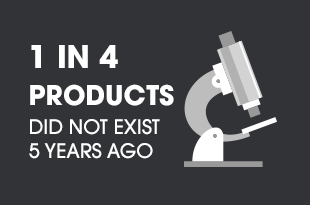
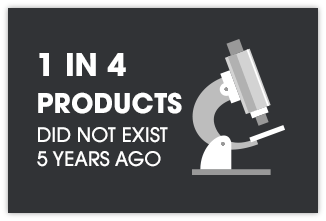
dfsjfhsl

diff --git a/index.html b/index.html
@@ -224,21 +224,25 @@ Solar Safety Film Trading.L.L.C is a leading performer in the window film indust
 
 						<div class="row topmargin-sm clearfix">
 
-							<div class="col-md-4 " style="padding:0px 35px">
-								<div class="heading-block nobottomborder" style="margin-bottom: 15px;">
-									<!-- <span class="before-heading">Scalable on Devices.</span> -->
-									<h4>What We Do</h4>
-								</div>
-								<p>
-Solar Safety Film Trading.L.L.C is the leading performer in window film industry of united arb emirates. As middleeast region has been the growing economy with environmental concern...
+							<div class="col-md-4 " style="padding:0px 15px">
+								<div style="background:#f6f6f6;padding:10px 25px">
+									<div class="heading-block nobottomborder" style="margin-bottom: 15px;">
+										<!-- <span class="before-heading">Scalable on Devices.</span> -->
+										<h4>What We Do</h4>
+									</div>
+									<p>
+	Solar Safety Film Trading.L.L.C is the leading performer in window film industry of united arb emirates. As middleeast region has been the growing economy with environmental concern...
 
-								</p>
-								<a href="whatwedo.html"><i class="fa fa-plus-square-o" aria-hidden="true"></i>  Read More</a>
+									</p>
+									<a href="whatwedo.html"><i class="fa fa-plus-square-o" aria-hidden="true"></i>  Read More</a>
+								</div>
+
 
 
 							</div>
 
-							<div class="col-md-4 " style="padding:0px 35px">
+							<div class="col-md-4 " style="padding:0px 15px">
+								<div style="background:#f6f6f6;padding:10px 25px">
 								<div class="heading-block nobottomborder" style="margin-bottom: 15px;">
 									<!-- <span class="before-heading">Smartly Coded &amp; Maintained.</span> -->
 									<h4>Corporate Values</h4>
@@ -247,9 +251,11 @@ Solar Safety Film Trading.L.L.C is the leading performer in window film industry
 As Dubai Supreme Council of Energy & Abudhabi Urban planning council (UPC) is strongly focusing on reducing CO2 emissions and carbon reduction plans, Solar Safety Film Trading.								</p>
 		<a href="corporate-values.html"><i class="fa fa-plus-square-o" aria-hidden="true"></i>  Read More</a>
 							</div>
+						</div>
 
-							<div class="col-md-4 " style="padding:0px 35px">
-								<div class="heading-block nobottomborder" style="margin-bottom: 15px;">
+						<div class="col-md-4 " style="padding:0px 15px">
+							<div style="background:#f6f6f6;padding:10px 25px">
+									<div class="heading-block nobottomborder" style="margin-bottom: 15px;">
 									<!-- <span class="before-heading">Flexible &amp; Customizable.</span> -->
 									<h4>Quality & Benefits</h4>
 								</div>
@@ -260,6 +266,7 @@ Windows are an important part of any building or home for natural light and view
 
 							</div>
 
+						</div>
 
 						</div>
 
@@ -374,9 +381,9 @@ Windows are an important part of any building or home for natural light and view
 
 						</div>
 
-						<img src="images/solar/1in4.png" class="img-responsive col-md-4 " style="background:#313336" alt="" />
-						<img src="images/solar/top100.jpg" class="img-responsive col-md-4"  style="border:1px solid #121"alt="" />
-						<img src="images/solar/topemp.jpg" class="img-responsive col-md-4" style="border:1px solid #121" alt="" />
+						<img src="images/solar/1in4.png" class="img-responsive col-md-4 "  alt="" />
+						<img src="images/solar/top100.png" class="img-responsive col-md-4"  alt="" />
+						<img src="images/solar/topemp.png" class="img-responsive col-md-4"  alt="" />
 
 						<div>&nbsp;</div>
 					</div>
@@ -429,7 +436,7 @@ After years of solid environmental stewardship, SolarGard journey towards enviro
 													<div class="col-md-3 col-sm-6 dark center col-padding-or" style="background:url(images/thumbs/solar-film-car-oman.png) ;background-size:cover">
 														<div>
 															<!-- <i class="fa fa-car fa-4x" aria-hidden="true"></i> -->
-															<div style="background:rgba(0,0,0,0.5) ">
+															<div style="background:rgba(0,0,0,0.7) ">
 															<div class="counter counter-lined"><span data-from="100" data-to="846" data-refresh-interval="50" data-speed="2000"></span> Sq.Ft</div>
 															<h5>Automotive Films </h5>
 														</div>
@@ -439,7 +446,7 @@ After years of solid environmental stewardship, SolarGard journey towards enviro
 													<div class="col-md-3 col-sm-6 dark center col-padding-or" style="background:url(images/thumbs/solar-films-commercial-oman.png);background-size:cover">
 														<div>
 															<!-- <i class="fa fa-area-chart fa-4x" aria-hidden="true"></i> -->
-															<div style="background:rgba(0,0,0,0.5) ">
+															<div style="background:rgba(0,0,0,0.7) ">
 															<div class="counter counter-lined"><span data-from="3000" data-to="21500" data-refresh-interval="100" data-speed="2500"></span> Sq.Ft</div>
 															<h5>Commercial Films</h5>
 														</div>
@@ -450,7 +457,7 @@ After years of solid environmental stewardship, SolarGard journey towards enviro
 													<div class="col-md-3 col-sm-6 dark center col-padding-or" style="background:url('images/thumbs/solar-film-residential-oman.png');background-size:cover">
 														<div>
 															<!-- <i class="fa fa-clone " aria-hidden="true"></i> -->
-															<div style="background:rgba(10,10,10,0.5) ">
+															<div style="background:rgba(10,10,10,0.7) ">
 																<div class="counter counter-lined"><span data-from="10" data-to="99" data-refresh-interval="20" data-speed="2500"></span> Sq.Ft</div>
 																<h5>Residential Films</h5>
 															</div>
@@ -461,10 +468,12 @@ After years of solid environmental stewardship, SolarGard journey towards enviro
 													<div class="col-md-3 col-sm-6 dark center col-padding-or" style="background:url('images/thumbs/solar-films-safety-oman.png');background-size:cover">
 														<div>
 															<!-- <i class="fa fa-flash fa-4x" aria-hidden="true"></i> -->
+															<div style="background:rgba(10,10,10,0.7) ">
 															<div class="counter counter-lined"><span data-from="6" data-to="30" data-refresh-interval="8" data-speed="2500"></span> Sq.Ft</div>
 															<h5>Safety Films</h5>
 														</div>
 													</div>
+												</div>
 
 											</div>
 
@@ -569,7 +578,7 @@ After years of solid environmental stewardship, SolarGard journey towards enviro
 
 				</div> -->
 
-				<div class="section nobottommargin nobottomborder" id="gallery" style="margin-top:0px !important">
+				<div class="section nobottommargin nobottomborder" id="gallery" style="margin-top:0px !important;    background: url('images/solar/222.jpg');background-size: cover;">
 					<div class="container clearfix">
 						<div class="heading-block center nomargin">
 							<h3>Our Projects</h3>
@@ -580,19 +589,20 @@ After years of solid environmental stewardship, SolarGard journey towards enviro
 
 					<article class="portfolio-item pf-uielements pf-media">
 						<div class="portfolio-image">
-							<a href="portfolio-single.html">
+							<a href="gallery-decorative.html">
 								<img src="images/solar/cgal/ar4.jpg " alt="Console Activity">
 							</a>
 							<div class="portfolio-overlay" data-lightbox="gallery">
-								<a href="images/solar/cgal/aur4.jpg" class="left-icon" data-lightbox="gallery-item"><i class="icon-line-stack-2"></i></a>
+								<a href="images/solar/cgal/ar4.jpg" class="left-icon" data-lightbox="gallery-item"><i class="icon-line-stack-2"></i></a>
 								<a href="images/solar/cgal/ar5.jpg" class="hidden" data-lightbox="gallery-item"></a>
 								<a href="images/solar/cgal/ar6.jpg" class="hidden" data-lightbox="gallery-item"></a>
 
 							</div>
 						</div>
 						<div class="portfolio-desc">
-							<h3><a href="portfolio-single.html">Automotive</a></h3>
-							<span><a href="#"> Elements</a>, <a href="#">Media</a></span>
+							<h3><a >Automotive</a></h3>
+							<span><a href="gallery-automotive.html"> Go To Automotive Gallery</a></span>
+
 						</div>
 					</article>
 
@@ -609,14 +619,14 @@ After years of solid environmental stewardship, SolarGard journey towards enviro
 							</div>
 						</div>
 						<div class="portfolio-desc">
-							<h3><a href="portfolio-single-gallery.html">Architecture</a></h3>
-							<span><a href="#">Illustrations</a>, <a href="#">Graphics</a></span>
+							<h3><a>Architecture </a></h3>
+							<span><a href="gallery-architecture.html"> Go To Architecture Gallery</a></span>
 						</div>
 					</article>
 
 					<article class="portfolio-item pf-uielements pf-icons">
 						<div class="portfolio-image">
-							<a href="portfolio-single-video.html">
+							<a >
 								<img src="images/solar/cgal/sf.jpg" alt="Backpack Contents">
 							</a>
 							<div class="portfolio-overlay" data-lightbox="gallery">
@@ -625,8 +635,8 @@ After years of solid environmental stewardship, SolarGard journey towards enviro
 							</div>
 						</div>
 						<div class="portfolio-desc">
-							<h3><a href="portfolio-single-video.html">Safety Films</a></h3>
-							<span><a href="#">UI Elements</a>, <a href="#">Icons</a></span>
+							<h3><a >Safety Films</a></h3>
+							<span><a href="gallery-safety-films.html"> Go To Safety Films Gallery</a></span>
 						</div>
 					</article>
 
@@ -646,8 +656,8 @@ After years of solid environmental stewardship, SolarGard journey towards enviro
 							</div>
 						</div>
 						<div class="portfolio-desc">
-							<h3><a href="portfolio-single.html">Decorative</a></h3>
-							<span><a href="#">Graphics</a></span>
+							<h3><a>Decorative</a></h3>
+							<span><a href="gallery-decorative.html"> Go To Decorative Gallery</a></span>
 						</div>
 					</article>
 					<article class="portfolio-item pf-media pf-icons">
@@ -656,13 +666,12 @@ After years of solid environmental stewardship, SolarGard journey towards enviro
 								<img src="images/solar/cgal/ar5.jpg" alt="Open Imagination">
 							</a>
 							<div class="portfolio-overlay" data-lightbox="gallery">
-								<a href="images/solar/cgal/ar5.jpg" class="left-icon" data-lightbox="image"><i class="icon-line-plus"></i></a>
-								<a href="portfolio-single.html" class="right-icon"><i class="icon-line-ellipsis"></i></a>
+								<a href="images/solar/cgal/ar5.jpg" class="left-icon" data-lightbox="image"><i class="icon-line-stack-2"></i></a>
 							</div>
 						</div>
 						<div class="portfolio-desc">
-							<h3><a href="portfolio-single.html">Automotive</a></h3>
-							<span><a href="#">Media</a>, <a href="#">Icons</a></span>
+							<h3><a >Automotive</a></h3>
+							<span><a href="gallery-automotive.html"> Go To Automotive Gallery</a></span>
 						</div>
 					</article>
 
@@ -672,13 +681,12 @@ After years of solid environmental stewardship, SolarGard journey towards enviro
 								<img src="images/solar/cgal/ar3.jpg" alt="Locked Steel Gate">
 							</a>
 							<div class="portfolio-overlay" data-lightbox="gallery">
-								<a href="images/solar/cgal/ar3.jpg" class="left-icon" data-lightbox="image"><i class="icon-line-plus"></i></a>
-								<a href="portfolio-single.html" class="right-icon"><i class="icon-line-ellipsis"></i></a>
+								<a href="images/solar/cgal/ar3.jpg" class="left-icon" data-lightbox="image"><i class="icon-stack-2"></i></a>
 							</div>
 						</div>
 						<div class="portfolio-desc">
-							<h3><a href="portfolio-single.html">Architecture</a></h3>
-							<span><a href="#">Illustrations</a></span>
+							<h3><a>Architecture</a></h3>
+							<span><a href="gallery-architecture.html"> Go To Architecture Gallery</a></span>
 						</div>
 					</article>
 
@@ -693,8 +701,8 @@ After years of solid environmental stewardship, SolarGard journey towards enviro
 							</div>
 						</div>
 						<div class="portfolio-desc">
-							<h3><a href="portfolio-single-video.html">Safety Films</a></h3>
-							<span><a href="#">Graphics</a>, <a href="#">UI Elements</a></span>
+							<h3><a>Safety Films</a></h3>
+							<span><a href="gallery-safety-films.html"> Go To Safety Films Gallery</a></span>
 						</div>
 					</article>
 
@@ -709,8 +717,8 @@ After years of solid environmental stewardship, SolarGard journey towards enviro
 							</div>
 						</div>
 						<div class="portfolio-desc">
-							<h3><a href="portfolio-single-gallery.html">Decorative</a></h3>
-							<span><a href="#"><a href="#">Icons</a>, <a href="#">Illustrations</a></span>
+							<h3><a>Decorative</a></h3>
+							<span><a href="gallery-decorative.html"> Go To Decorative Gallery</a></span>
 						</div>
 					</article>
 				</div>

diff --git a/style.css b/style.css
@@ -145,7 +145,7 @@ body {
 
 a {
 	text-decoration: none !important;
-	color: #1ABC9C;
+	color: #017FB3;
 }
 
 a:hover { color: #222; }
@@ -378,7 +378,7 @@ span.middot {
 }
 
 .bgcolor,
-.bgcolor #header-wrap { background-color: #1ABC9C !important; }
+.bgcolor #header-wrap { background-color: #017FB3 !important; }
 
 .color { color: #1ABC9C !important; }
 
@@ -1156,7 +1156,7 @@ body.stretched #header.full-header .container {
 }
 
 #primary-menu ul li:hover > a,
-#primary-menu ul li.current > a { color: #1ABC9C; }
+#primary-menu ul li.current > a { color: #017FB3; }
 
 #primary-menu > ul > li.sub-menu > a > div { }
 
@@ -2159,7 +2159,7 @@ body.top-search-open #top-account { opacity: 0; }
 
 #page-menu-wrap {
 	z-index: 99;
-	background-color: #1ABC9C;
+	background-color: #017FB3;
 	-webkit-transform: translate3d(0,0,0);
 	-ms-transform: translate3d(0,0,0);
 	-o-transform: translate3d(0,0,0);
@@ -11335,7 +11335,7 @@ label.error { display: none !important; }
 	display: block;
 	background: transparent;
 	padding: 0 0 10px;
-	border-bottom: 2px solid #1ABC9C;
+	border-bottom: 2px solid #017FB3;
 }
 
 
